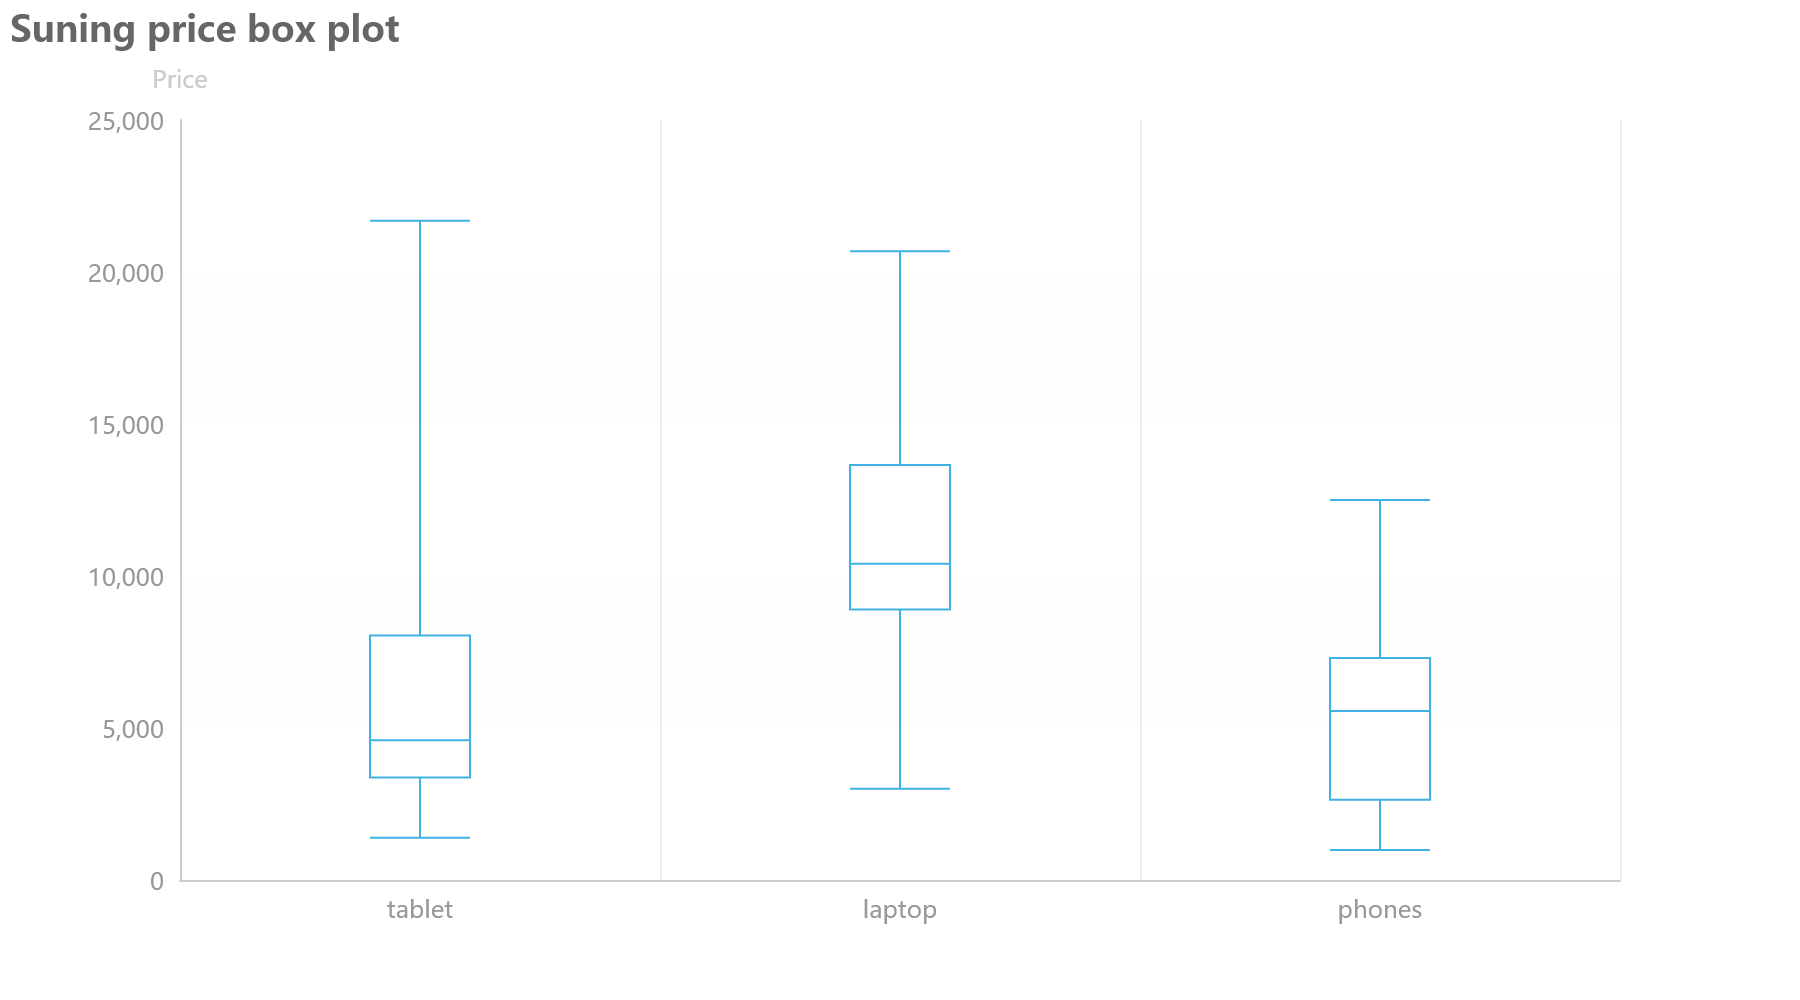
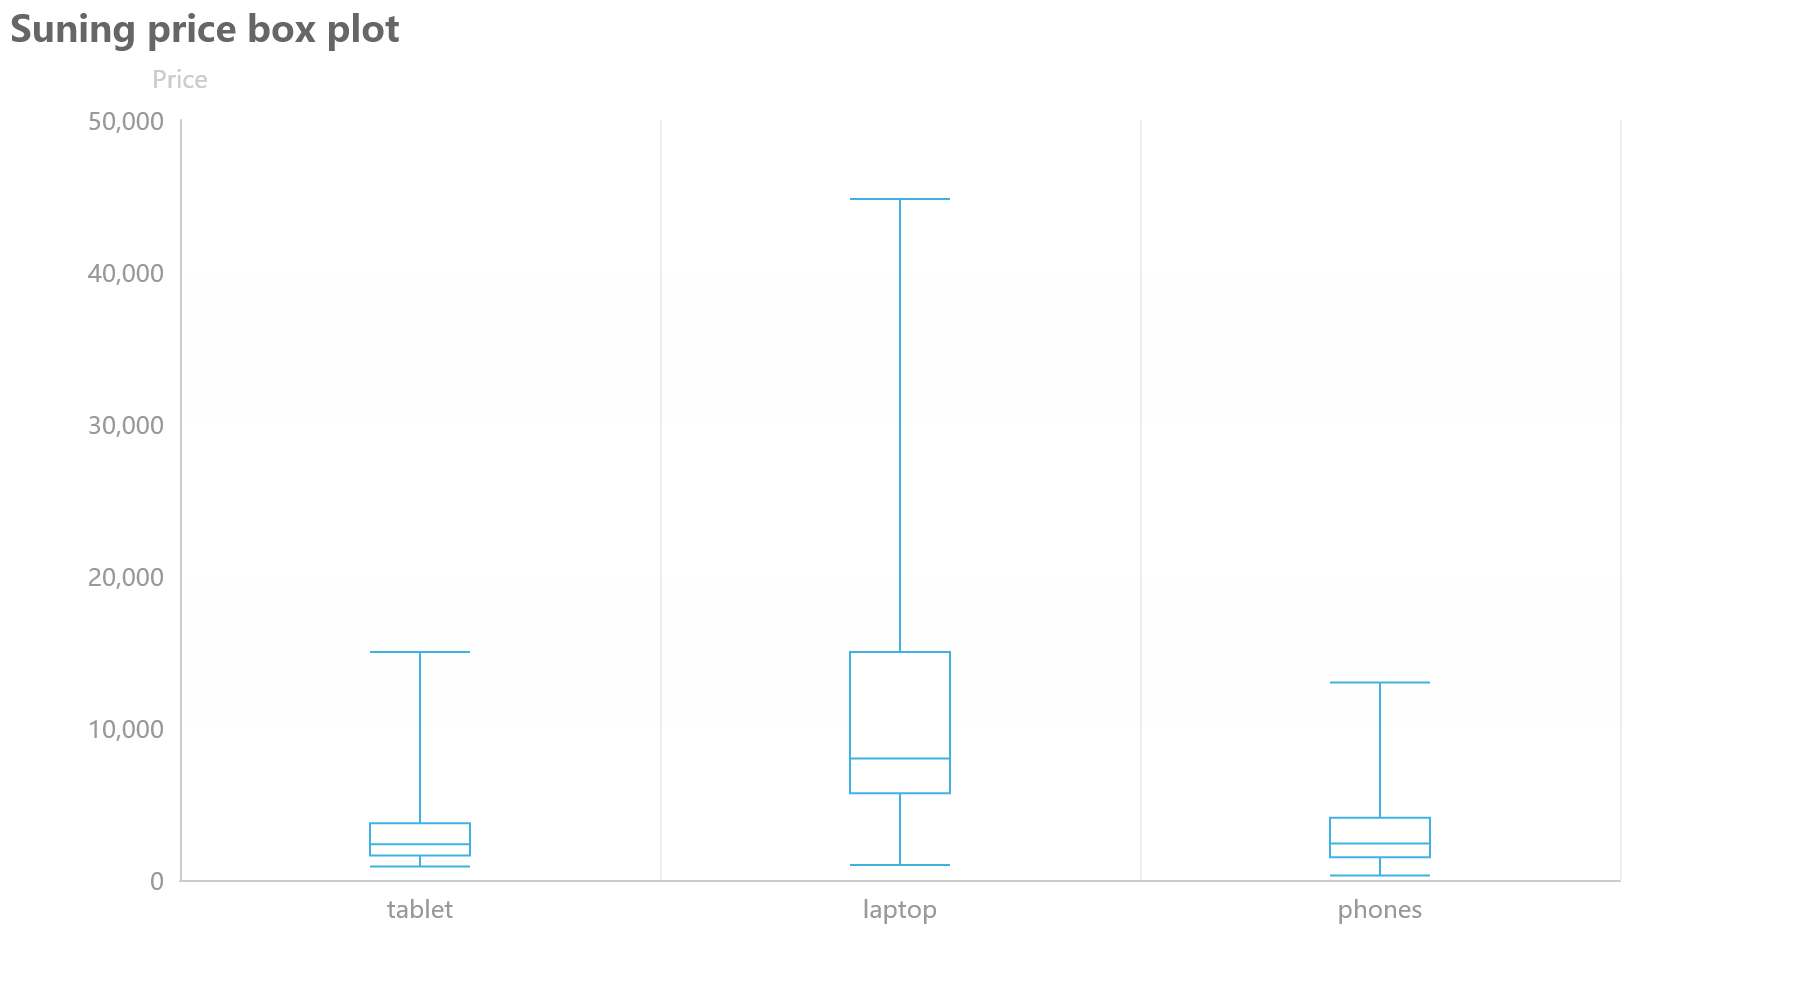
Made Box Plots

diff --git a/Data Analysis/Pictures/Suning-price-box-plot.html b/Data Analysis/Pictures/Suning-price-box-plot.html
@@ -8,11 +8,11 @@
 
 </head>
 <body>
-    <div id="77236857240647099963a2660b6eb0bc" class="chart-container" style="width:900px; height:500px;"></div>
+    <div id="f585b6463fb64e0cba8edf1bb05981d4" class="chart-container" style="width:900px; height:500px;"></div>
     <script>
-        var chart_77236857240647099963a2660b6eb0bc = echarts.init(
-            document.getElementById('77236857240647099963a2660b6eb0bc'), 'walden', {renderer: 'canvas'});
-        var option_77236857240647099963a2660b6eb0bc = {
+        var chart_f585b6463fb64e0cba8edf1bb05981d4 = echarts.init(
+            document.getElementById('f585b6463fb64e0cba8edf1bb05981d4'), 'walden', {renderer: 'canvas'});
+        var option_f585b6463fb64e0cba8edf1bb05981d4 = {
     "animation": true,
     "animationThreshold": 2000,
     "animationDuration": 1000,
@@ -26,25 +26,25 @@
             "type": "boxplot",
             "data": [
                 [
-                    1388.0,
-                    3368.5,
-                    4599.0,
-                    8043.5,
-                    21688.0
-                ],
-                [
-                    2998.0,
-                    8899.0,
-                    10399.0,
-                    13651.0,
-                    20679.0
+                    889.0,
+                    1619.25,
+                    2349.0,
+                    3728.75,
+                    14999.0
                 ],
                 [
                     988.0,
-                    2638.0,
-                    5556.12,
-                    7305.5,
-                    12499.0
+                    5704.25,
+                    7998.0,
+                    14998.75,
+                    44800.0
+                ],
+                [
+                    299.0,
+                    1499.0,
+                    2399.0,
+                    4099.0,
+                    12999.0
                 ]
             ],
             "label": {
@@ -193,7 +193,7 @@
         }
     ]
 };
-        chart_77236857240647099963a2660b6eb0bc.setOption(option_77236857240647099963a2660b6eb0bc);
+        chart_f585b6463fb64e0cba8edf1bb05981d4.setOption(option_f585b6463fb64e0cba8edf1bb05981d4);
     </script>
 </body>
 </html>
